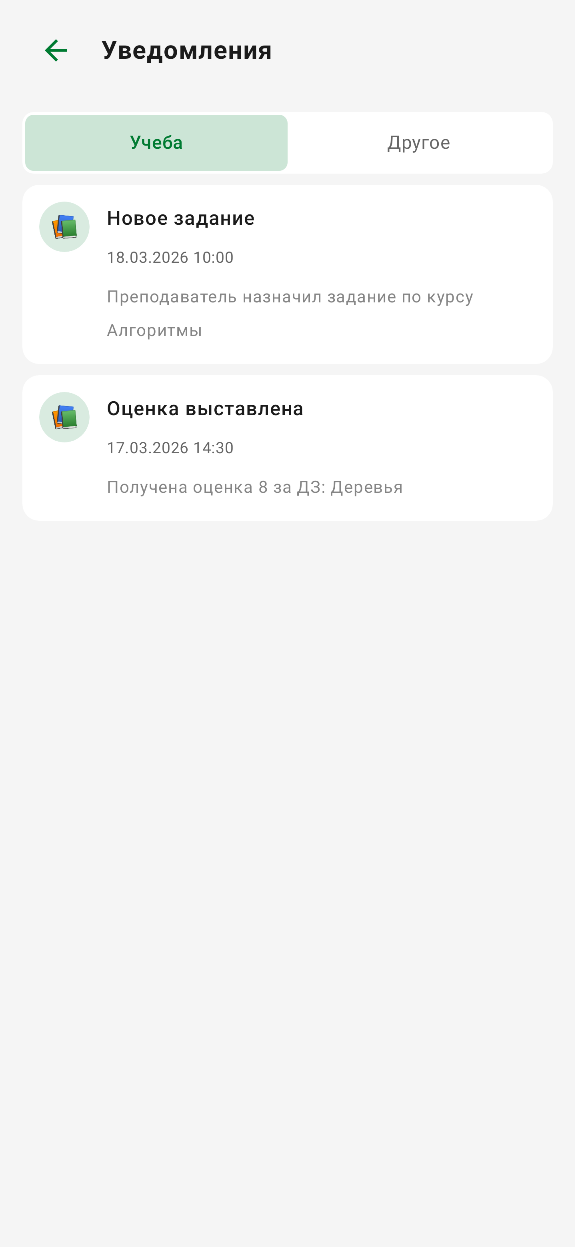
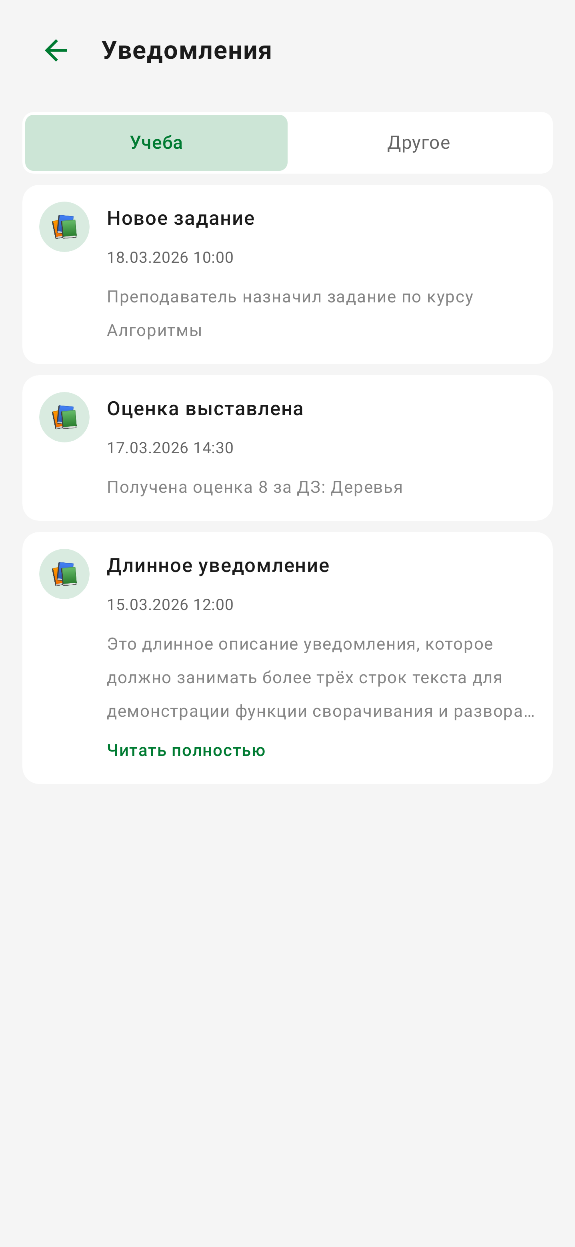
Add expand/collapse for long notification descriptions
Notifications with descriptions exceeding 3 lines now show a
"Читать полностью" / "Свернуть" toggle. Tapping the card expands
the full text with animated content size transition. Also normalizes
excessive blank lines in descriptions and adds a preview for the
expanded state.

diff --git a/shared/src/commonMain/kotlin/io/github/kroune/cumobile/presentation/notifications/NotificationsScreen.kt b/shared/src/commonMain/kotlin/io/github/kroune/cumobile/presentation/notifications/NotificationsScreen.kt
@@ -1,5 +1,6 @@
 package io.github.kroune.cumobile.presentation.notifications
 
+import androidx.compose.animation.animateContentSize
 import androidx.compose.foundation.background
 import androidx.compose.foundation.clickable
 import androidx.compose.foundation.layout.Arrangement
@@ -23,6 +24,9 @@ import androidx.compose.material3.pulltorefresh.PullToRefreshBox
 import androidx.compose.runtime.Composable
 import androidx.compose.runtime.LaunchedEffect
 import androidx.compose.runtime.getValue
+import androidx.compose.runtime.mutableStateOf
+import androidx.compose.runtime.remember
+import androidx.compose.runtime.setValue
 import androidx.compose.ui.Alignment
 import androidx.compose.ui.Modifier
 import androidx.compose.ui.draw.clip
@@ -128,6 +132,10 @@ internal fun NotificationsScreenContent(
                 )
                 else -> NotificationsList(
                     notifications = state.currentNotifications,
+                    expandedIds = state.expandedNotificationIds,
+                    onToggleExpand = { id ->
+                        onIntent(NotificationsComponent.Intent.ToggleExpand(id))
+                    },
                     onLinkClick = { uri ->
                         onIntent(NotificationsComponent.Intent.OpenLink(uri))
                     },
@@ -140,6 +148,8 @@ internal fun NotificationsScreenContent(
 @Composable
 private fun NotificationsList(
     notifications: List<NotificationItem>,
+    expandedIds: Set<String>,
+    onToggleExpand: (String) -> Unit,
     onLinkClick: (String) -> Unit,
     modifier: Modifier = Modifier,
 ) {
@@ -150,15 +160,24 @@ private fun NotificationsList(
         verticalArrangement = Arrangement.spacedBy(8.dp),
     ) {
         items(notifications, key = { it.id }) { item ->
-            NotificationCard(item = item, onLinkClick = onLinkClick)
+            NotificationCard(
+                item = item,
+                isExpanded = item.id in expandedIds,
+                onToggleExpand = { onToggleExpand(item.id) },
+                onLinkClick = onLinkClick,
+            )
         }
         item { Spacer(modifier = Modifier.height(16.dp)) }
     }
 }
 
+private const val CollapsedMaxLines = 3
+
 @Composable
 private fun NotificationCard(
     item: NotificationItem,
+    isExpanded: Boolean,
+    onToggleExpand: () -> Unit,
     onLinkClick: (String) -> Unit,
     modifier: Modifier = Modifier,
 ) {
@@ -166,6 +185,8 @@ private fun NotificationCard(
         modifier = modifier
             .fillMaxWidth()
             .background(AppTheme.colors.surface, RoundedCornerShape(12.dp))
+            .clickable(onClick = onToggleExpand)
+            .animateContentSize()
             .padding(12.dp),
     ) {
         // Category icon
@@ -193,15 +214,34 @@ private fun NotificationCard(
             )
 
             // Description
-            if (item.description.isNotBlank()) {
+            val descriptionText = normalizeWhitespace(item.description)
+            if (descriptionText.isNotBlank()) {
                 Spacer(modifier = Modifier.height(4.dp))
+
+                var hasVisualOverflow by remember { mutableStateOf(false) }
+
                 Text(
-                    text = item.description.trim(),
+                    text = descriptionText,
                     color = AppTheme.colors.textSecondary.copy(alpha = 0.8f),
                     fontSize = 12.sp,
-                    maxLines = 3,
+                    maxLines = if (isExpanded) Int.MAX_VALUE else CollapsedMaxLines,
                     overflow = TextOverflow.Ellipsis,
+                    onTextLayout = { result ->
+                        if (!isExpanded) {
+                            hasVisualOverflow = result.hasVisualOverflow
+                        }
+                    },
                 )
+
+                if (hasVisualOverflow || isExpanded) {
+                    Spacer(modifier = Modifier.height(4.dp))
+                    Text(
+                        text = if (isExpanded) "Свернуть" else "Читать полностью",
+                        color = AppTheme.colors.accent,
+                        fontSize = 12.sp,
+                        fontWeight = FontWeight.Medium,
+                    )
+                }
             }
 
             // Link
@@ -221,6 +261,12 @@ private fun NotificationCard(
         }
     }
 }
+
+/**
+ * Trims and collapses excessive blank lines in notification descriptions.
+ */
+private fun normalizeWhitespace(text: String): String =
+    text.trim().replace(Regex("\\n{3,}"), "\n\n")
 
 @Composable
 private fun NotificationIcon(
@@ -261,6 +307,20 @@ private fun notificationIconEmoji(
         }
     }
 
+@Suppress("MagicNumber")
+private val previewLongNotification = NotificationItem(
+    id = "long",
+    title = "Длинное уведомление",
+    description = "Это длинное описание уведомления, которое должно занимать " +
+        "более трёх строк текста для демонстрации функции сворачивания и " +
+        "разворачивания. Здесь может быть дополнительная информация о " +
+        "задании, оценке или событии, которая не помещается в краткий " +
+        "предпросмотр карточки уведомления.",
+    icon = "education",
+    category = "1",
+    createdAt = "2026-03-15T12:00:00",
+)
+
 private val previewNotificationsState = NotificationsComponent.State(
     educationNotifications = listOf(
         NotificationItem(
@@ -279,6 +339,7 @@ private val previewNotificationsState = NotificationsComponent.State(
             category = "1",
             createdAt = "2026-03-17T14:30:00",
         ),
+        previewLongNotification,
     ),
 )
 
@@ -300,6 +361,21 @@ private fun PreviewNotificationsScreenLight() {
     CuMobileTheme(darkTheme = false) {
         NotificationsScreenContent(
             state = previewNotificationsState,
+            onIntent = {},
+            onBack = {},
+        )
+    }
+}
+
+@Suppress("MagicNumber")
+@Preview
+@Composable
+private fun PreviewNotificationsExpandedDark() {
+    CuMobileTheme(darkTheme = true) {
+        NotificationsScreenContent(
+            state = previewNotificationsState.copy(
+                expandedNotificationIds = setOf("long"),
+            ),
             onIntent = {},
             onBack = {},
         )

diff --git a/shared/src/commonMain/kotlin/io/github/kroune/cumobile/presentation/notifications/NotificationsComponent.kt b/shared/src/commonMain/kotlin/io/github/kroune/cumobile/presentation/notifications/NotificationsComponent.kt
@@ -25,6 +25,8 @@ interface NotificationsComponent {
         val selectedTab: Int = 0,
         /** URI that should be opened externally (set by OpenLink, consumed by UI). */
         val externalLinkToOpen: String? = null,
+        /** IDs of notifications whose descriptions are fully expanded. */
+        val expandedNotificationIds: Set<String> = emptySet(),
     ) {
         /** Notifications for the currently selected tab. */
         val currentNotifications: List<NotificationItem>
@@ -46,5 +48,10 @@ interface NotificationsComponent {
 
         /** Acknowledge that the external link has been opened. */
         data object ExternalLinkOpened : Intent
+
+        /** Toggle expand/collapse for a notification's description. */
+        data class ToggleExpand(
+            val notificationId: String,
+        ) : Intent
     }
 }

diff --git a/shared/src/commonMain/kotlin/io/github/kroune/cumobile/presentation/notifications/DefaultNotificationsComponent.kt b/shared/src/commonMain/kotlin/io/github/kroune/cumobile/presentation/notifications/DefaultNotificationsComponent.kt
@@ -49,6 +49,15 @@ class DefaultNotificationsComponent(
             NotificationsComponent.Intent.ExternalLinkOpened -> {
                 _state.value = _state.value.copy(externalLinkToOpen = null)
             }
+            is NotificationsComponent.Intent.ToggleExpand -> {
+                val current = _state.value.expandedNotificationIds
+                val updated = if (intent.notificationId in current) {
+                    current - intent.notificationId
+                } else {
+                    current + intent.notificationId
+                }
+                _state.value = _state.value.copy(expandedNotificationIds = updated)
+            }
         }
     }
 
